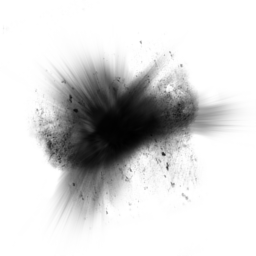
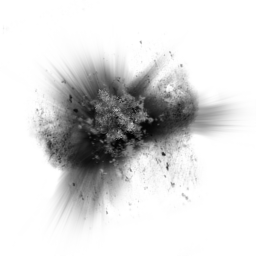
Added smoke on hits

Changed region(s): [[0.2812, 0.3438, 0.6562, 0.6875], [0.625, 0.375, 0.6875, 0.4062], [0.375, 0.6562, 0.4062, 0.6875]]

diff --git a/Assets/Scripts/Effects/LaserController.cs b/Assets/Scripts/Effects/LaserController.cs
@@ -6,6 +6,7 @@ public class LaserController : MonoBehaviour {
 	public GameObject hitExplosion;
 	public GameObject hitSparks;
 	public GameObject debris;
+	public GameObject smoke;
 	public GameObject[] hitDecals;
 
 	private Vector3 lastPosition;
@@ -48,6 +49,13 @@ public class LaserController : MonoBehaviour {
 				Debug.DrawRay(decal.transform.position, decal.transform.forward * 10.0f, Color.red);
 
 				Destroy(decal, 10.0f);
+			}
+
+			if(smoke){
+				GameObject newSmoke = Instantiate(smoke);
+				newSmoke.transform.position = transform.position;
+
+				Destroy(newSmoke, 20.0f);
 			}
 
 			Destroy(this.gameObject);
